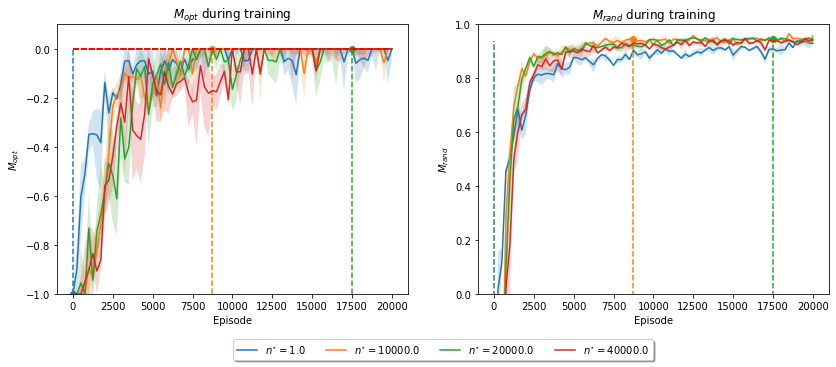
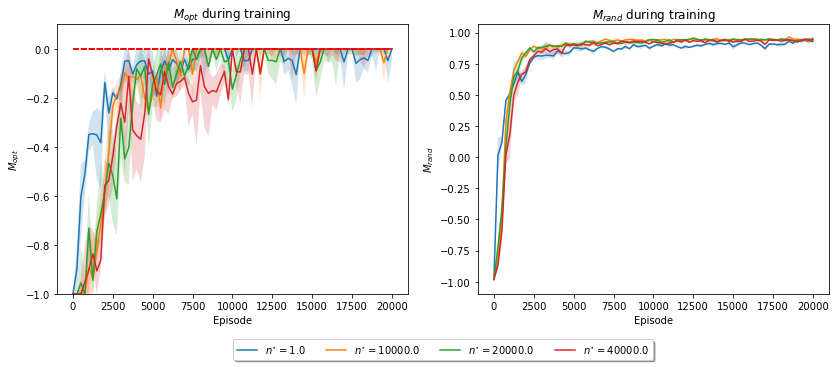
figs

diff --git a/code/utils.py b/code/utils.py
@@ -218,8 +218,6 @@ def plot_stats(stats_dict_list, vec_var, var_name, var_legend_name, save=False, 
                         ax_1[0, idx].plot(x_1[find_nearest], running_average[find_nearest], marker="o", color=color)
                         ax_1[0, idx].vlines(x=x_1[find_nearest], ymin=min(running_average), ymax=max(running_average), color=color, ls='--')
                 # Legend and axis names
-                if key == 'reward':
-                    ax_1[0, idx].set_ylim([-1, 1])
                 ax_1[0, idx].set_xlabel('Episode')
                 ax_1[0, idx].set_ylabel(key.capitalize())
                 ax_1[0, idx].set_title('Average ' + key + ' during training')
@@ -252,7 +250,7 @@ def plot_stats(stats_dict_list, vec_var, var_name, var_legend_name, save=False, 
                 ax[0].set_xlabel('Episode')
                 ax[0].set_ylabel('$M_{opt}$')
                 ax[0].set_title('$M_{opt}$ during training')
-                ax[1].set_ylim(top=1)
+                #ax[1].set_ylim(None, 1)
                 ax[1].set_xlabel('Episode')
                 ax[1].set_ylabel('$M_{rand}$')
                 ax[1].set_title('$M_{rand}$ during training')
